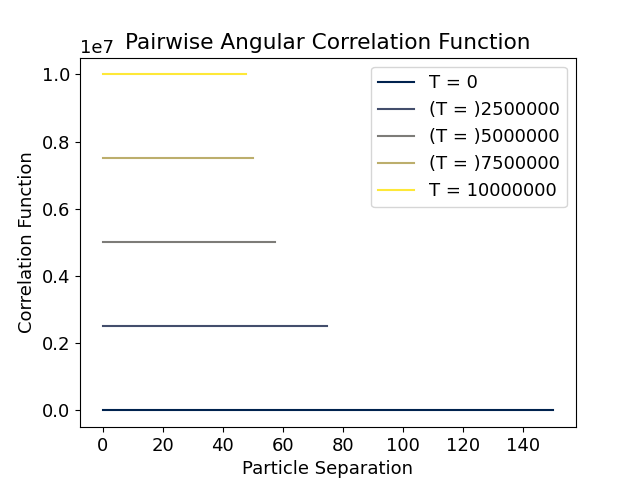
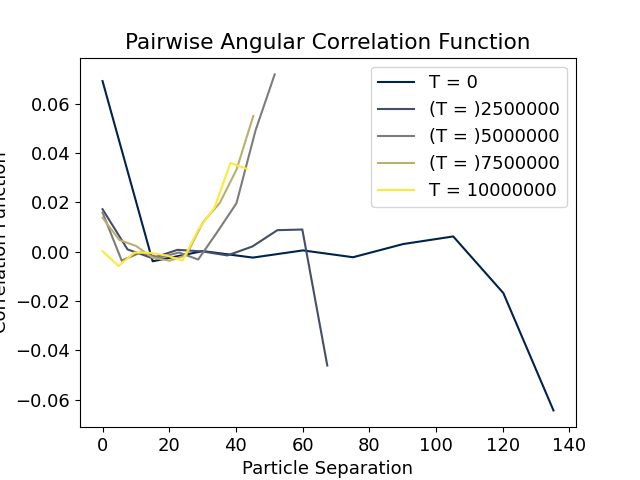
mask implemented

diff --git a/Phase_Structure/Nunchucks/Fixed_Rigidity/correlation.plot.py b/Phase_Structure/Nunchucks/Fixed_Rigidity/correlation.plot.py
@@ -121,19 +121,31 @@ def correlation_func(data):
     separation_bins = np.linspace(0, max_separation, SEPARATION_BIN_NUM, endpoint=False)
     correlation_data = np.zeros_like(separation_bins)
 
+    # for n, radius in enumerate(separation_bins):
+    #     sum = 0  # running total of legendre polynomials
+    #     count = 0  # for calculation of average value
+    #     for value in np.nditer(angle_array):
+    #         if angle_array[i, j, 0] > radius and angle_array[i, j, 0] < (
+    #             radius + bin_width
+    #         ):
+    #             sum_values += np.polynomial.legendre.legval(
+    #                 angle_array[i, j, 1], [0, 0, 1]
+    #             )
+    #             # finds second order legendre polynomial
+    #             count += 1
+    #     correlation_data[n] = sum_values / count
+
     for n, radius in enumerate(separation_bins):
-        sum = 0  # running total of legendre polynomials
-        count = 0  # for calculation of average value
-        for value in np.nditer(angle_array):
-            if angle_array[i, j, 0] > radius and angle_array[i, j, 0] < (
-                radius + bin_width
-            ):
-                sum_values += np.polynomial.legendre.legval(
-                    angle_array[i, j, 1], [0, 0, 1]
-                )
-                # finds second order legendre polynomial
-                count += 1
-        correlation_data[n] = sum_values / count
+        # mask data outside the relevant radius range
+        relevant_data = np.ma.masked_where(
+            np.logical_or(
+                (angle_array[:, :, 0] < radius),
+                (angle_array[:, :, 0] > (radius + bin_width)),
+            ),
+            angle_array[:, :, 1],  # act on angle data
+        )
+        correlation_data[n] = np.mean(relevant_data)
+
         print("    radius = " + str(radius) + "/" + str(max_separation))
 
     return separation_bins, correlation_data
